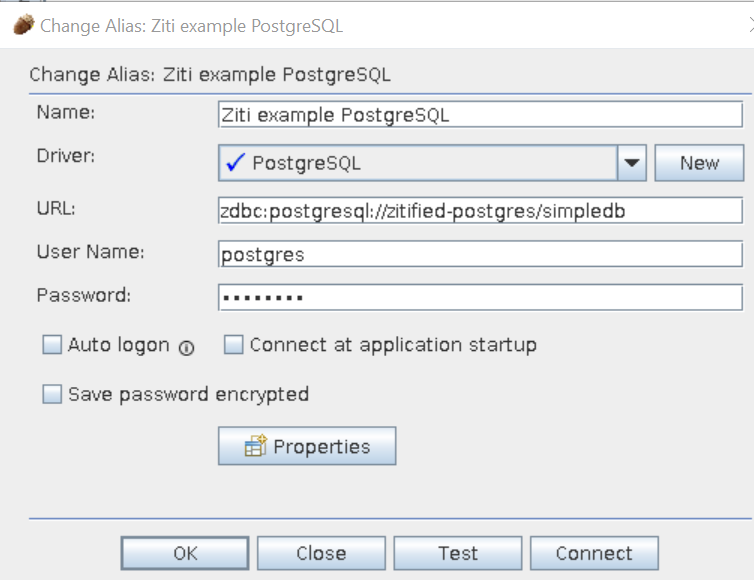
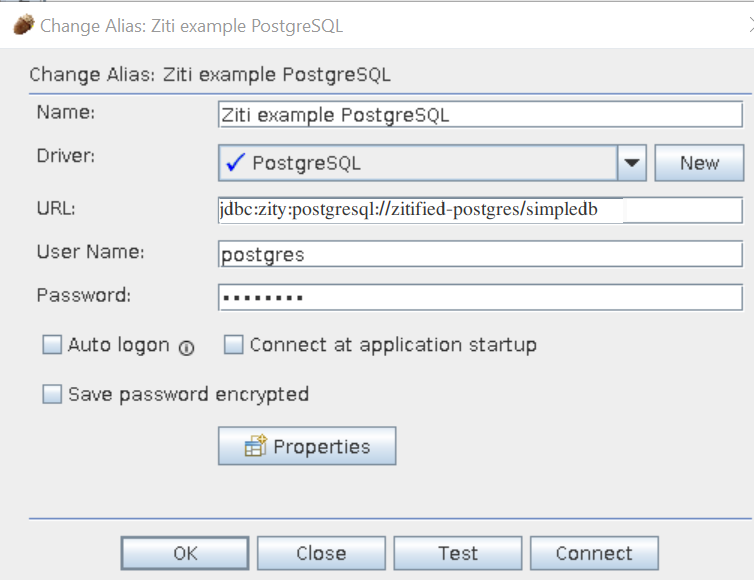
Updating jdbc readme to reflect jdbc:ziti vs zdbc: in URLs

Changed region(s): [[0.2745, 0.3414, 0.8236, 0.4034]]

diff --git a/ziti-jdbc/README.md b/ziti-jdbc/README.md
@@ -34,6 +34,7 @@ The zdbc driver needs your ziti network identity to connect. There are three way
 ## Requirements
 1. A Ziti network and database: (https://github.com/openziti/ziti-sdk-jvm/blob/main/samples/jdbc-postgres/cheatsheet.md) 
 1. Squirrel-Sql client: (http://squirrel-sql.sourceforge.net/#installation)
+1. Postgresql JDBC driver: (https://search.maven.org/artifact/org.postgresql/postgresql)
 1. Ziti ZDBC wrapper full jar: (this project): (https://search.maven.org/search?q=g:org.openziti&a=ziti-jdbc&l:full)
 
 ## Step by Step
@@ -52,7 +53,7 @@ The zdbc driver needs your ziti network identity to connect. There are three way
 1. Create a PostgreSQL alias with the following values
     1. Name: `Ziti example PostgreSQL`
     1. Driver: `PostgreSQL`
-    1. URL: `zdbc:postgresql://zitified-postgres/simpledb`
+    1. URL: `jdbc:zity:postgresql://zitified-postgres/simpledb`
     1. User Name: `postgres`
     1. Password: `postgres`
     1. The Ziti Identity file is provided via driver properties.  Click the Properties button and set the zitiIdentityFile property to the java-identity.json file created during the network setup
@@ -64,5 +65,5 @@ The zdbc driver needs your ziti network identity to connect. There are three way
 
 # Example of integrating into a Java application
 This repository includes a coupld of examples using Java to connect to a dark database.
-* (samples/postgresql/README.md): Postgresql example using the JDBC DriverManager to connect to a dark database.
-* (samples/spring-jpa/README.md): A learning excercise adding spring-data-jpa and spring-data-rest to host a dark http server that connects to a dark postgres database
+* [samples/postgresql/README.md](samples/postgresql/README.md): Postgresql example using the JDBC DriverManager to connect to a dark database.
+* [samples/spring-jpa/README.md](samples/spring-jpa/README.md): A learning excercise adding spring-data-jpa and spring-data-rest to host a dark http server that connects to a dark postgres database
